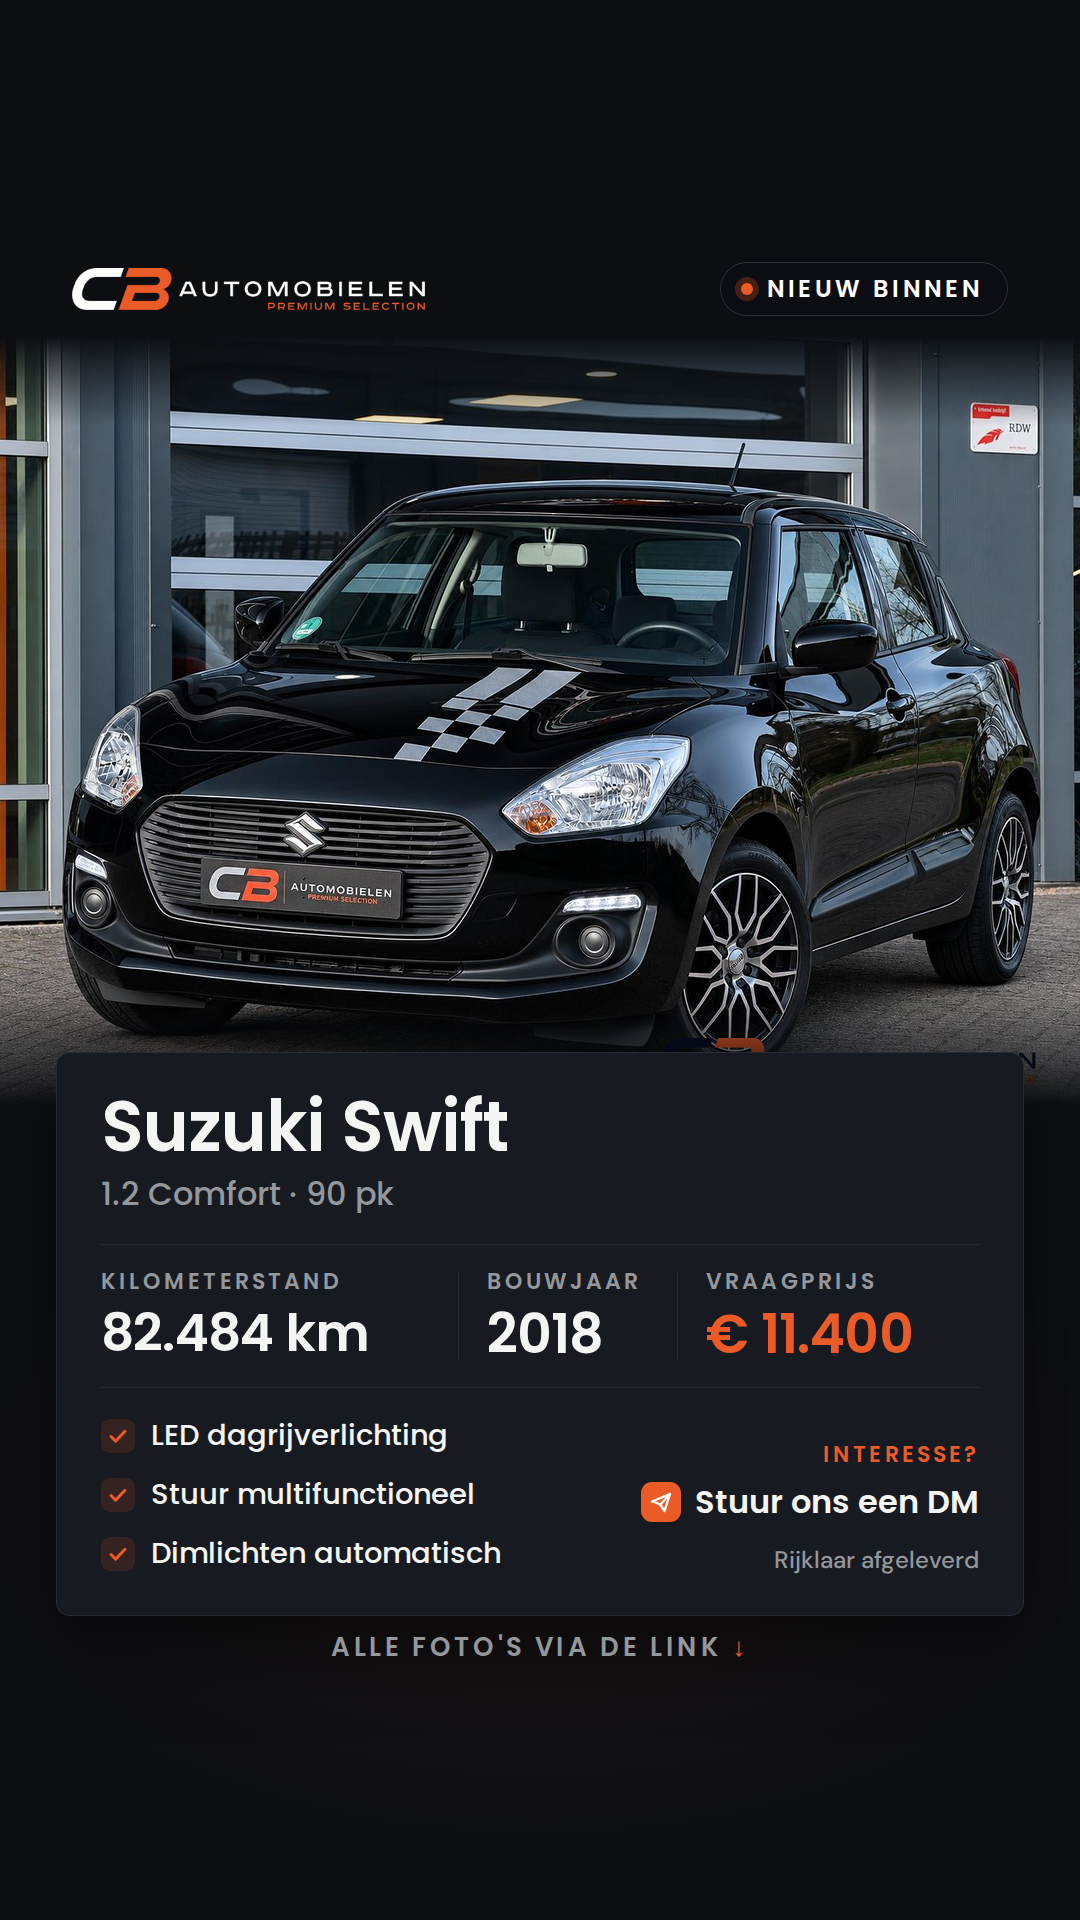
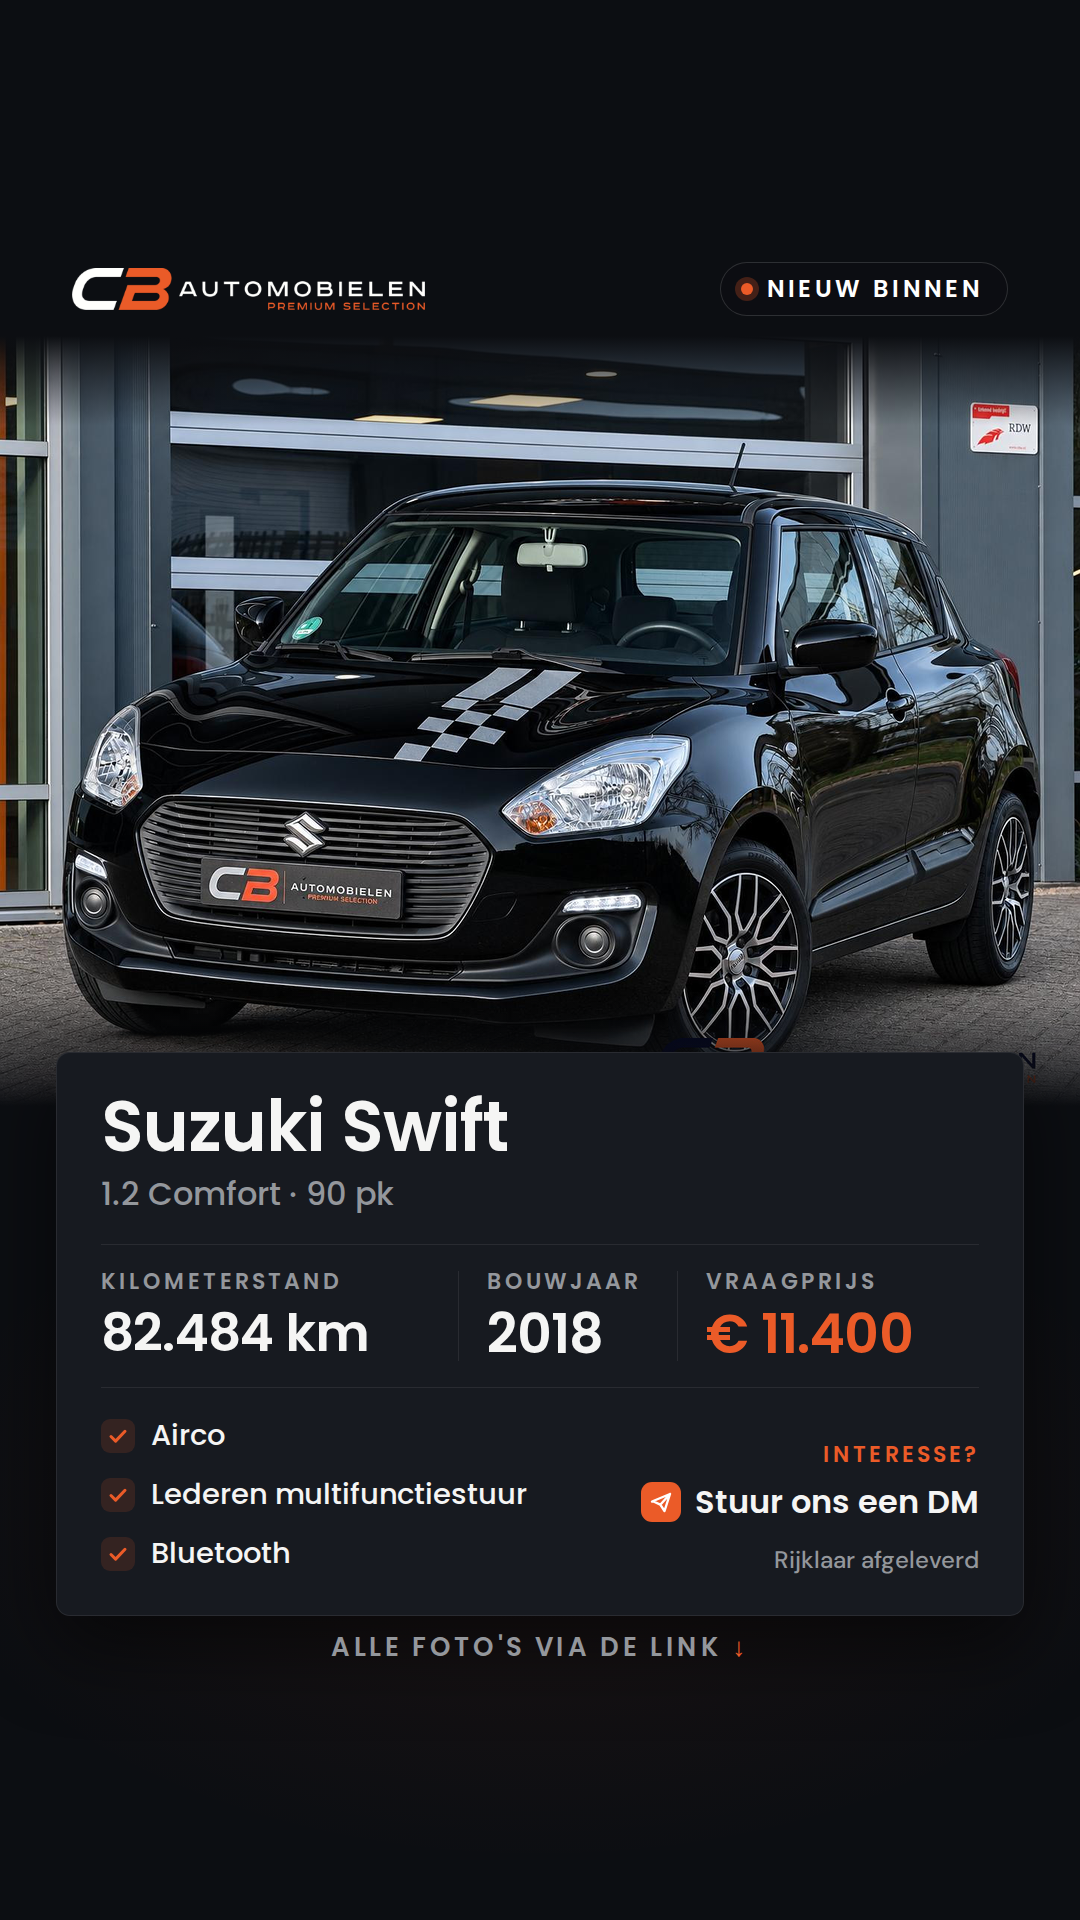
rapport 2026-11-16 08:56

Changed region(s): [[0.1528, 0.7188, 0.4889, 0.8125]]

diff --git a/stories/2026-11-16/README.md b/stories/2026-11-16/README.md
@@ -10,18 +10,41 @@
 
 ```
 Net binnen! 🔥 Suzuki Swift 1.2 Comfort
-LED dagrijverlichting, stuur multifunctioneel en dimlichten automatisch.
+Airco, lederen multifunctiestuur en bluetooth.
 2018 · 82.484 km · 90 pk · € 11.400
 Tik op de link voor alle foto's 👆
 ```
 
 ```
 Wie wordt de nieuwe eigenaar? 🔑
-Suzuki Swift met LED dagrijverlichting, stuur multifunctioneel en dimlichten automatisch.
+Suzuki Swift met airco, lederen multifunctiestuur en bluetooth.
 Nu bij CB Automobielen in Sneek · € 11.400
 ```
 
 ![story](58194725.png)
+
+## MINI Cooper S Cabrio 2.0 Chili Serious Business
+
+- Prijs: € 16.900 · 2016 · 42.832 km · 192 pk
+- Link voor de linksticker: https://www.cbautomobielen.nl/aanbod/mini-cooper-s-cabrio-2-0-chili-serious-business-58190508
+- Afbeelding: https://raw.githubusercontent.com/CBAutmobielen/cb-instagram-automaat/main/stories/2026-11-16/58190508.png
+
+**Tekstideeën voor in je verhaal:**
+
+```
+Net binnen! 🔥 Mini Cooper S Cabrio 2.0 Chili Serious Business
+Lederen/stof bekleding, sportstoelen en sportonderstel.
+2016 · 42.832 km · 192 pk · € 16.900
+Tik op de link voor alle foto's 👆
+```
+
+```
+Wie wordt de nieuwe eigenaar? 🔑
+Mini Cooper met lederen/stof bekleding, sportstoelen en sportonderstel.
+Nu bij CB Automobielen in Sneek · € 16.900
+```
+
+![story](58190508.png)
 
 ## Fiat 500 1.2 Lounge
 
